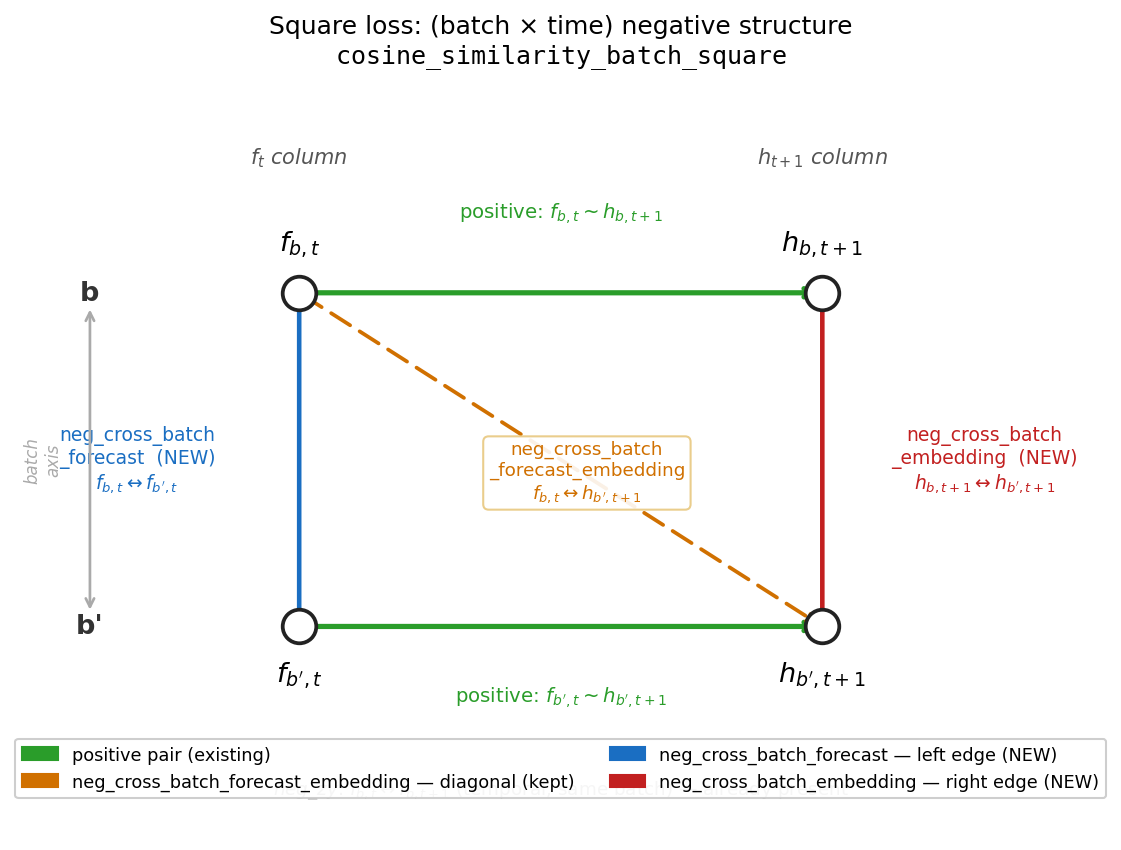
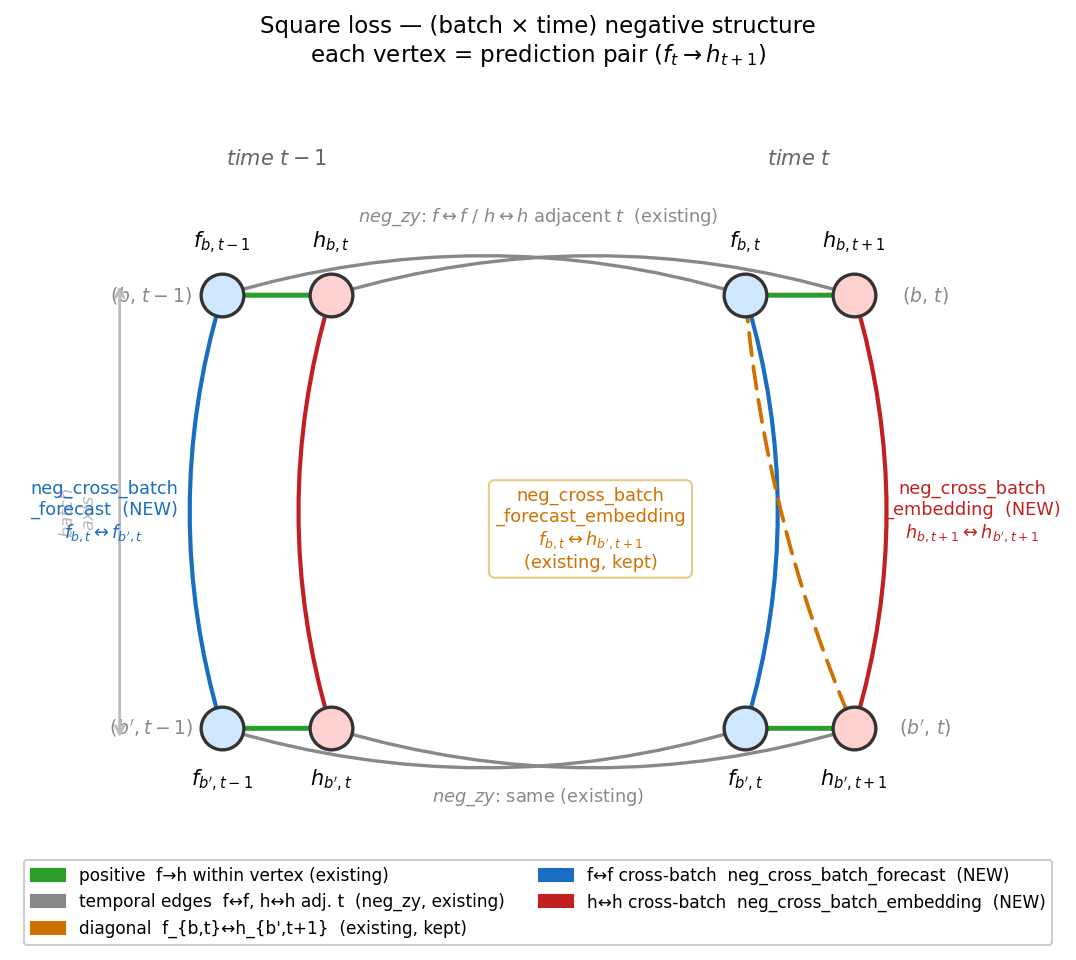
exp(loss-extensions): revised square diagram + trimmed DESIGN.md
Diagram: each vertex is a (f, h) pair — thin forecast/ground-truth dimension that
collapses at convergence. Left/right batch edges now correctly split blue (f↔f) /
red (h↔h); orange diagonal sits between them on the right column.

DESIGN.md: removed "diagonals not added" and "future cube" sections; added geometry
note explaining the square spans (batch, time), with the (f,h) per-vertex thickness
expected to vanish as training converges.

diff --git a/experiments/2026-05-09_exp_loss_extensions/scripts/plot_square_diagram.py b/experiments/2026-05-09_exp_loss_extensions/scripts/plot_square_diagram.py
@@ -1,99 +1,152 @@
-"""Generate the (batch × time) square diagram for the loss extensions design doc."""
+"""Generate the (batch × time) square diagram — each vertex is an (f, h) pair."""
 import matplotlib
 matplotlib.use("Agg")
 import matplotlib.pyplot as plt
 import matplotlib.patches as mpatches
 
-fig, ax = plt.subplots(figsize=(9, 6.5))
+fig, ax = plt.subplots(figsize=(9, 7.5))
 ax.set_xlim(0, 10)
-ax.set_ylim(0, 9)
+ax.set_ylim(0, 10)
 ax.axis("off")
 
-# ── vertex positions (all in [0,10]×[0,9] space) ──────────────────────────────
-X_F, X_H = 2.5, 7.5        # f_t column, h_{t+1} column
-Y_B, Y_BP = 6.5, 2.5       # row b (top), row b' (bottom)
-POS = dict(f_b=(X_F, Y_B), h_b=(X_H, Y_B), f_bp=(X_F, Y_BP), h_bp=(X_H, Y_BP))
+# ── Each square corner holds TWO nodes: f (left) and h (right), offset by ±D ──
+# Corner centres in the (batch, time) grid:
+#   TL=(b, t-1)  TR=(b, t)
+#   BL=(b',t-1)  BR=(b',t)
+CX = {  "TL": 2.5, "TR": 7.5, "BL": 2.5, "BR": 7.5  }
+CY = {  "TL": 7.5, "TR": 7.5, "BL": 2.5, "BR": 2.5  }
+D = 0.52          # half-separation between f and h within a corner
+R = 0.22          # node radius for scatter
 
-def edge(src, dst, color, lw, arrowhead=False, ls="-"):
-    x0, y0 = POS[src]; x1, y1 = POS[dst]
+# Node positions: each corner → (f_x, f_y), (h_x, h_y)
+def fn(corner): return (CX[corner]-D, CY[corner])   # f node
+def hn(corner): return (CX[corner]+D, CY[corner])   # h node
+
+NODES = {
+    "f_TL": fn("TL"), "h_TL": hn("TL"),
+    "f_TR": fn("TR"), "h_TR": hn("TR"),
+    "f_BL": fn("BL"), "h_BL": hn("BL"),
+    "f_BR": fn("BR"), "h_BR": hn("BR"),
+}
+
+# ── colours ────────────────────────────────────────────────────────────────────
+C_POS   = "#2a9d2a"   # green   — positive
+C_LEFT  = "#1a6ec2"   # blue    — left/right edges NEW (f<>f, h<>h same time)
+C_TOPB  = "#888888"   # grey    — top/bottom edges (temporal, already covered)
+C_RIGHT = "#c22020"   # red     — h-side batch edge (NEW)
+C_DIAG  = "#d07000"   # orange  — diagonal (existing, kept)
+
+def arrow(src, dst, color, lw, arrowhead=True, ls="-", rad=0.0):
+    x0, y0 = NODES[src]; x1, y1 = NODES[dst]
     ax.annotate("", xy=(x1, y1), xytext=(x0, y0),
-                arrowprops=dict(arrowstyle="->" if arrowhead else "-",
-                                color=color, lw=lw, linestyle=ls,
-                                connectionstyle="arc3,rad=0.0"),
+                arrowprops=dict(
+                    arrowstyle="->" if arrowhead else "-",
+                    color=color, lw=lw, linestyle=ls,
+                    connectionstyle=f"arc3,rad={rad}"),
                 zorder=3)
 
-# ── edges ──────────────────────────────────────────────────────────────────────
-edge("f_b",  "h_b",  "#2a9d2a", 2.5, arrowhead=True)           # positive top
-edge("f_bp", "h_bp", "#2a9d2a", 2.5, arrowhead=True)           # positive bottom
-edge("f_b",  "f_bp", "#1a6ec2", 2.2)                           # left NEW
-edge("h_b",  "h_bp", "#c22020", 2.2)                           # right NEW
-edge("f_b",  "h_bp", "#d07000", 1.8, arrowhead=True, ls=(0,(6,3)))  # diagonal kept
+# ── POSITIVE pairs: f→h within each corner (×4) ───────────────────────────────
+for c in ("TL", "TR", "BL", "BR"):
+    arrow(f"f_{c}", f"h_{c}", C_POS, 2.4)
 
-# ── vertices ───────────────────────────────────────────────────────────────────
-VLABELS = dict(f_b=r"$f_{b,t}$", h_b=r"$h_{b,t+1}$",
-               f_bp=r"$f_{b',t}$", h_bp=r"$h_{b',t+1}$")
-for k, (x, y) in POS.items():
-    ax.scatter(x, y, s=260, zorder=5, color="white", edgecolors="#222", linewidths=1.8)
-    dy, va = (0.4, "bottom") if y == Y_B else (-0.4, "top")
-    ax.text(x, y+dy, VLABELS[k], ha="center", va=va, fontsize=13, fontweight="bold")
+# ── TOP edge: TL <> TR (temporal, same batch b) — grey, 2 arrows ──────────────
+# f_TL <> f_TR
+arrow("f_TL", "f_TR", C_TOPB, 1.6, rad=-0.15)   # f side top
+# h_TL <> h_TR
+arrow("h_TL", "h_TR", C_TOPB, 1.6, rad=-0.15)   # h side top
 
-# ── inline edge labels ─────────────────────────────────────────────────────────
-MX, MY = (X_F+X_H)/2, (Y_B+Y_BP)/2
-# positive top
-ax.text(MX, Y_B+0.9, r"positive: $f_{b,t}\sim h_{b,t+1}$",
-        ha="center", fontsize=9.5, color="#2a9d2a",
-        bbox=dict(fc="white", ec="none", pad=1))
-# positive bottom
-ax.text(MX, Y_BP-0.9, r"positive: $f_{b',t}\sim h_{b',t+1}$",
-        ha="center", fontsize=9.5, color="#2a9d2a",
-        bbox=dict(fc="white", ec="none", pad=1))
-# left edge
-ax.text(X_F-1.55, MY,
+# ── BOTTOM edge: BL <> BR (temporal, same batch b') — grey, 2 arrows ──────────
+arrow("f_BL", "f_BR", C_TOPB, 1.6, rad=0.15)
+arrow("h_BL", "h_BR", C_TOPB, 1.6, rad=0.15)
+
+# ── LEFT edge: TL <> BL (batch axis at time t-1) — blue f-side, red h-side ────
+arrow("f_TL", "f_BL", C_LEFT,  2.0, arrowhead=False, rad=0.15)
+arrow("h_TL", "h_BL", C_RIGHT, 2.0, arrowhead=False, rad=0.15)
+
+# ── RIGHT edge: TR <> BR (batch axis at time t) — blue f-side, red h-side ─────
+arrow("f_TR", "f_BR", C_LEFT,  2.0, arrowhead=False, rad=-0.15)
+arrow("h_TR", "h_BR", C_RIGHT, 2.0, arrowhead=False, rad=-0.15)
+
+# ── DIAGONAL: f_TR → h_BR  (existing neg_cross_batch_forecast_embedding) ───────
+arrow("f_TR", "h_BR", C_DIAG, 1.8, arrowhead=True, ls=(0,(6,3)), rad=0.08)
+
+# ── Draw nodes on top ──────────────────────────────────────────────────────────
+F_COLOR = "#d0e8ff"   # light blue for f
+H_COLOR = "#ffd0d0"   # light red  for h
+for k, (x, y) in NODES.items():
+    c = F_COLOR if k.startswith("f") else H_COLOR
+    ax.scatter(x, y, s=420, zorder=5, color=c, edgecolors="#333", linewidths=1.6)
+
+# node labels
+NL = {
+    "f_TL": r"$f_{b,t-1}$",  "h_TL": r"$h_{b,t}$",
+    "f_TR": r"$f_{b,t}$",    "h_TR": r"$h_{b,t+1}$",
+    "f_BL": r"$f_{b',t-1}$", "h_BL": r"$h_{b',t}$",
+    "f_BR": r"$f_{b',t}$",   "h_BR": r"$h_{b',t+1}$",
+}
+for k, (x, y) in NODES.items():
+    corner = k[2:]
+    dy = 0.45 if CY[corner] > 5 else -0.45
+    va = "bottom" if CY[corner] > 5 else "top"
+    ax.text(x, y+dy, NL[k], ha="center", va=va, fontsize=10, fontweight="bold")
+
+# ── corner labels (prediction pair names) ─────────────────────────────────────
+for corner, label in [("TL", r"$(b,\,t-1)$"), ("TR", r"$(b,\,t)$"),
+                       ("BL", r"$(b',t-1)$"), ("BR", r"$(b',\,t)$")]:
+    dx = -1.2 if corner in ("TL","BL") else 1.2
+    ax.text(CX[corner]+dx, CY[corner],
+            label, ha="center", va="center", fontsize=9, color="#888", style="italic")
+
+# ── axis labels ────────────────────────────────────────────────────────────────
+ax.annotate("", xy=(1.0, CY["BL"]-0.15), xytext=(1.0, CY["TL"]+0.15),
+            arrowprops=dict(arrowstyle="<->", color="#bbb", lw=1.3))
+ax.text(0.6, (CY["TL"]+CY["BL"])/2, "batch\naxis", ha="center", va="center",
+        fontsize=8.5, color="#bbb", style="italic", rotation=90)
+ax.text(CX["TL"], CY["TL"]+1.5, r"time $t-1$", ha="center", fontsize=10,
+        color="#666", style="italic")
+ax.text(CX["TR"], CY["TR"]+1.5, r"time $t$", ha="center", fontsize=10,
+        color="#666", style="italic")
+
+# ── diagonal label ─────────────────────────────────────────────────────────────
+ax.text(5.5, 4.8,
+        "neg_cross_batch\n_forecast_embedding\n"+r"$f_{b,t}\leftrightarrow h_{b',t+1}$"+"\n(existing, kept)",
+        ha="center", va="center", fontsize=8.5, color=C_DIAG,
+        bbox=dict(fc="white", ec="#e8c880", boxstyle="round,pad=0.35", alpha=0.95))
+
+# ── edge labels ────────────────────────────────────────────────────────────────
+# top grey
+ax.text((CX["TL"]+CX["TR"])/2, CY["TL"]+0.85,
+        r"$neg\_zy$: $f\leftrightarrow f$ / $h\leftrightarrow h$ adjacent $t$  (existing)",
+        ha="center", fontsize=8.5, color=C_TOPB)
+# bottom grey
+ax.text((CX["BL"]+CX["BR"])/2, CY["BL"]-0.85,
+        r"$neg\_zy$: same (existing)",
+        ha="center", fontsize=8.5, color=C_TOPB)
+# left blue
+ax.text(CX["TL"]-1.65, (CY["TL"]+CY["BL"])/2,
         "neg_cross_batch\n_forecast  (NEW)\n"+r"$f_{b,t}\leftrightarrow f_{b',t}$",
-        ha="center", va="center", fontsize=9, color="#1a6ec2",
-        bbox=dict(fc="white", ec="none", pad=1))
-# right edge
-ax.text(X_H+1.55, MY,
+        ha="center", va="center", fontsize=8.5, color=C_LEFT)
+# right red
+ax.text(CX["TR"]+1.65, (CY["TR"]+CY["BR"])/2,
         "neg_cross_batch\n_embedding  (NEW)\n"+r"$h_{b,t+1}\leftrightarrow h_{b',t+1}$",
-        ha="center", va="center", fontsize=9, color="#c22020",
-        bbox=dict(fc="white", ec="none", pad=1))
-# diagonal
-ax.text(MX+0.25, MY-0.15,
-        "neg_cross_batch\n_forecast_embedding\n"+r"$f_{b,t}\leftrightarrow h_{b',t+1}$",
-        ha="center", va="center", fontsize=8.8, color="#d07000",
-        bbox=dict(fc="white", ec="#e8c880", boxstyle="round,pad=0.3", alpha=0.9))
-
-# ── axis / column labels ───────────────────────────────────────────────────────
-ax.text(X_F, Y_B+1.55, r"$f_t$ column", ha="center", fontsize=10, color="#555", style="italic")
-ax.text(X_H, Y_B+1.55, r"$h_{t+1}$ column", ha="center", fontsize=10, color="#555", style="italic")
-# batch-axis arrow + labels
-ax.annotate("", xy=(0.5, Y_BP+0.15), xytext=(0.5, Y_B-0.15),
-            arrowprops=dict(arrowstyle="<->", color="#aaa", lw=1.3))
-ax.text(0.5, Y_B,  "b",  ha="center", va="center", fontsize=13, fontweight="bold", color="#333")
-ax.text(0.5, Y_BP, "b'", ha="center", va="center", fontsize=13, fontweight="bold", color="#333")
-ax.text(0.05, MY, "batch\naxis", ha="center", va="center", fontsize=8, color="#aaa",
-        style="italic", rotation=90)
-
-# ── footnote ───────────────────────────────────────────────────────────────────
-ax.text(5, 0.55,
-        r"$neg\_zy$: $f_{b,t}\leftrightarrow f_{b,t+1}$ (temporal, same batch) — already present",
-        ha="center", va="center", fontsize=8.8, color="#555")
+        ha="center", va="center", fontsize=8.5, color=C_RIGHT)
 
 # ── title ──────────────────────────────────────────────────────────────────────
-ax.set_title("Square loss: (batch × time) negative structure\n"
-             r"$\mathtt{cosine\_similarity\_batch\_square}$",
-             fontsize=12, pad=10)
+ax.set_title("Square loss — (batch × time) negative structure\n"
+             r"each vertex = prediction pair $(f_t \rightarrow h_{t+1})$",
+             fontsize=11, pad=8)
 
-# ── legend (inside axes, top-centre) ──────────────────────────────────────────
+# ── legend ─────────────────────────────────────────────────────────────────────
 items = [
-    mpatches.Patch(color="#2a9d2a", label="positive pair (existing)"),
-    mpatches.Patch(color="#d07000", label="neg_cross_batch_forecast_embedding — diagonal (kept)"),
-    mpatches.Patch(color="#1a6ec2", label="neg_cross_batch_forecast — left edge (NEW)"),
-    mpatches.Patch(color="#c22020", label="neg_cross_batch_embedding — right edge (NEW)"),
+    mpatches.Patch(color=C_POS,   label="positive  f→h within vertex (existing)"),
+    mpatches.Patch(color=C_TOPB,  label="temporal edges  f↔f, h↔h adj. t  (neg_zy, existing)"),
+    mpatches.Patch(color=C_DIAG,  label="diagonal  f_{b,t}↔h_{b',t+1}  (existing, kept)"),
+    mpatches.Patch(color=C_LEFT,  label="f↔f cross-batch  neg_cross_batch_forecast  (NEW)"),
+    mpatches.Patch(color=C_RIGHT, label="h↔h cross-batch  neg_cross_batch_embedding  (NEW)"),
 ]
-ax.legend(handles=items, loc="upper center", fontsize=8.5,
+ax.legend(handles=items, loc="lower center", fontsize=8.2,
           framealpha=0.95, edgecolor="#ccc", ncol=2,
-          bbox_to_anchor=(0.5, 0.14))   # fraction of axes: centre, near bottom
+          bbox_to_anchor=(0.5, -0.01))
 
 out = "experiments/2026-05-09_exp_loss_extensions/plots/square_diagram.png"
 fig.savefig(out, dpi=150, bbox_inches="tight")

diff --git a/experiments/2026-05-09_exp_loss_extensions/DESIGN.md b/experiments/2026-05-09_exp_loss_extensions/DESIGN.md
@@ -44,60 +44,48 @@ negatives before the log, making every (t, c) slice a B-way retrieval task.
 
 ---
 
-## The square and its diagonals
+## The square
 
-Each vertex is a prediction pair `(f_{b,t} ~ h_{b,t+1})` in (batch, time) space.
-Going clockwise from top-left:
+### Geometry
+
+The "square" spans two axes:
+
+- **batch axis** (rows b vs b')
+- **time axis** (columns t-1 vs t)
+
+Each vertex of the square is a prediction pair `(f_t, h_{t+1})`. Within each vertex,
+`f_t` and `h_{t+1}` are drawn as two close nodes — this is the **thin "forecast vs
+ground-truth" dimension**, which we expect to collapse to near-zero at convergence
+(`f_t ≈ h_{t+1}` when the forecaster is perfect). The square geometry is what matters;
+the per-vertex thickness is a training artefact.
 
 ```
-            f_t col                   h_{t+1} col
-  b      f_{b,t}   ─── positive ───►  h_{b,t+1}
-             │  \                         │
-  LEFT EDGE  │   \ neg_cross_batch_       │  RIGHT EDGE
-  (MISSING)  │    \  forecast_embedding   │  (MISSING)
-             │     \  (diagonal, kept)    │
-  b'     f_{b',t}  ─── positive ───►  h_{b',t+1}
+        time t-1                          time t
+  b   (f_{b,t-1}, h_{b,t})  ←────────  (f_{b,t}, h_{b,t+1})
+             │                  ↗ diag      │
+  b'  (f_{b',t-1}, h_{b',t}) ────────  (f_{b',t}, h_{b',t+1})
 ```
 
-### Edge / diagonal inventory
+See `plots/square_diagram.png` for the full annotated diagram.
 
-| name | expression | type | status |
+### Edge inventory
+
+| edge | nodes | term | status |
 |---|---|---|---|
-| **positive** | `f_{b,t} ~ h_{b,t+1}` | edge (positive) | already there |
-| `neg_zy` | `f_{b,t} <> f_{b,t+1}` | time edge | already there |
-| `neg_cross_batch_forecast_embedding` | `f_{b,t} <> h_{b',t+1}` (b≠b') | **diagonal** | already there — kept unchanged |
-| **`neg_cross_batch_forecast`** | `f_{b,t} <> f_{b',t}` (b≠b') | **left edge** | **NEW** |
-| **`neg_cross_batch_embedding`** | `h_{b,t+1} <> h_{b',t+1}` (b≠b') | **right edge** | **NEW** |
+| top / bottom (time axis) | f↔f, h↔h adj. t | `neg_zy` | already there |
+| diagonal | `f_{b,t} ↔ h_{b',t+1}` (b≠b') | `neg_cross_batch_forecast_embedding` | already there — kept |
+| **left / right (batch axis), f-side** | `f_{b,t} ↔ f_{b',t}` | **`neg_cross_batch_forecast`** | **NEW** |
+| **left / right (batch axis), h-side** | `h_{b,t+1} ↔ h_{b',t+1}` | **`neg_cross_batch_embedding`** | **NEW** |
 
-### Diagonals deliberately NOT added in this experiment
-
-The square has two diagonals. We keep the existing one
-(`neg_cross_batch_forecast_embedding` = `f_{b,t} <> h_{b',t+1}`) unchanged.
-We are not adding the reverse or any other cross-time/cross-batch diagonals, e.g.:
-
-- `h_{b,t+1} <> f_{b',t}` — reverse of the existing diagonal
-- `f_{b,t} <> h_{b',t}` — cross-batch same-time f vs h (not time-shifted)
-- `h_{b,t+1} <> f_{b',t+1}` — cross-batch different-side, shifted the other way
-
-### Why "square" (and future "cube")
-
-The positive pair `f_t^b ~ h_{t+1}^b` contracts each `(f, h)` pair to a single point
-in embedding space at convergence, so each vertex of the (batch × time) grid collapses
-to a point. This lets us reason about the loss geometry as a 2-D square diagram even
-though we live in a high-dimensional embedding space.
-
-The square only spans the (batch, time) axes. Extending to (batch, time, channel) would
-give a **cube** — but for our current C=1 setup the channel axis is degenerate, so the
-square diagram is sufficient for now. The cube is a later experiment.
+The diagonal `neg_cross_batch_forecast_embedding` = `f_{b,t} ↔ h_{b',t+1}` crosses both
+the batch dimension (b→b') and the f/h dimension simultaneously. It is kept unchanged.
+The two clean batch-axis edges are what this experiment adds.
 
 ---
 
 ## New terms: `neg_cross_batch_forecast` and `neg_cross_batch_embedding`
 
-### `neg_cross_batch_forecast` — left edge `f_{b,t} <> f_{b',t}`
-
-Pushes each forecaster output away from every other batch element's forecaster at the
-**same time t**. Symmetric to the existing diagonal, but on the f–f side.
+### `neg_cross_batch_forecast` — `f_{b,t} <> f_{b',t}`
 
 ```python
 f_anchor = hy_hat_norm.unsqueeze(0)  # [1, B, T-1, C, H]
@@ -110,10 +98,7 @@ neg_cross_batch_forecast = torch.exp(sims_ff / tau).masked_fill(~mask_b, 0).sum(
 # [B, T-1, C]
 ```
 
-### `neg_cross_batch_embedding` — right edge `h_{b,t+1} <> h_{b',t+1}`
-
-Pushes each encoder-next embedding away from every other batch element's encoder-next
-at the **same time t+1**. Symmetric to the existing diagonal, but on the h–h side.
+### `neg_cross_batch_embedding` — `h_{b,t+1} <> h_{b',t+1}`
 
 ```python
 h_anchor = hy_norm.unsqueeze(0)  # [1, B, T-1, C, H]
@@ -131,8 +116,8 @@ neg_cross_batch_embedding = torch.exp(sims_hh / tau).masked_fill(~mask_b, 0).sum
 ```python
 negatives = (neg_xy + neg_xx + neg_zy + neg_xy_hat
              + neg_cross_batch_forecast_embedding   # existing diagonal, kept
-             + neg_cross_batch_forecast             # NEW: left edge
-             + neg_cross_batch_embedding)           # NEW: right edge
+             + neg_cross_batch_forecast             # NEW: f-side batch edge
+             + neg_cross_batch_embedding)           # NEW: h-side batch edge
 ```
 
 Loss shape name: **`cosine_similarity_batch_square`**.
@@ -141,10 +126,9 @@ Loss shape name: **`cosine_similarity_batch_square`**.
 
 ## Hypothesis
 
-`neg_cross_batch_forecast_embedding` (diagonal) already pushes `f_t^b` away from
-`h_{t+1}^{b'}`, but the two clean batch-axis edges are absent: forecasters from
-different batches at the same time are not repelled, and neither are encoder states from
-different batches at the same time. Adding both clean edges should force batch-discriminative
+The existing diagonal (`neg_cross_batch_forecast_embedding`) pushes `f_t^b` away from
+`h_{t+1}^{b'}`, but forecasters and encoder states from different batches at the **same
+time** are not repelled. Adding both clean batch-axis edges forces batch-discriminative
 representations at each timestep on both the f-side and the h-side.
 
 Expected direction: lower `U_batch`, no regression on discriminative metrics
@@ -154,10 +138,8 @@ Expected direction: lower `U_batch`, no regression on discriminative metrics
 
 ## Possible follow-ups (not in scope here)
 
-- **Remove the diagonal** (`neg_cross_batch_forecast_embedding`) from the baseline and
-  confirm it does not hurt performance — would tell us whether the diagonal or the clean
-  edges are load-bearing.
-- **Add more diagonals** (e.g. the reverse `h_{t+1}^b <> f_t^{b'}`) to see whether
-  off-axis terms compound the gain.
-- Both follow-ups make sense only after confirming that the square is better than the
-  baseline, so they are deferred.
+- **Remove the diagonal** (`neg_cross_batch_forecast_embedding`) and confirm it does not
+  hurt performance — would tell us whether the diagonal or the clean edges are the
+  load-bearing cross-batch signal.
+- **Add the reverse diagonal** (`h_{b,t+1} ↔ f_{b',t}`) and more off-axis terms to
+  test whether additional cross-type terms compound the gain.
